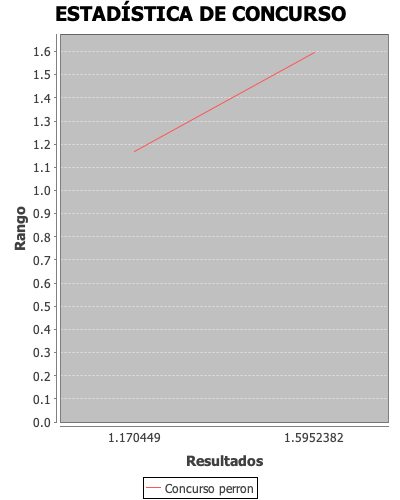
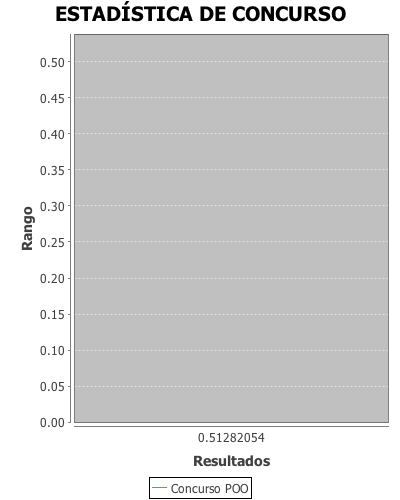
Se llenaron combos y la tabla del reporte desviacion

diff --git a/CYSCDP_RANKINGS/src/swing/Graficas.java b/CYSCDP_RANKINGS/src/swing/Graficas.java
@@ -37,15 +37,23 @@ public class Graficas extends javax.swing.JInternalFrame {
     DatosPuntajes mDatosPuntajes;
     DefaultTableModel Tabla = new DefaultTableModel();
     DefaultTableModel Tabla2 = new DefaultTableModel();
-
+    DefaultTableModel Tabla3 = new DefaultTableModel();
+    
     int IDConcurso = 0;
     int ContadorColumna = 1;
+    int ContadorColumna2 = 1;
+    int IDConcursos1=0;
+    int IDEquipo1=0;
+    int IDEquipo2=0;
 
     ArrayList mArrayListEquipo = new ArrayList();
 
     public Graficas() {
         initComponents();
+        LBL_Mensajero2.setText("");
         LlenarComboConcurso();
+        LlenarComboCon();
+        LlenarComboEq();
         reporteDes();
     }
 
@@ -94,6 +102,7 @@ public class Graficas extends javax.swing.JInternalFrame {
         jScrollPane2 = new javax.swing.JScrollPane();
         Tabla_Des = new javax.swing.JTable();
         ChartDes = new javax.swing.JPanel();
+        LBL_Mensajero2 = new javax.swing.JLabel();
 
         setBorder(null);
         addInternalFrameListener(new javax.swing.event.InternalFrameListener() {
@@ -351,6 +360,8 @@ public class Graficas extends javax.swing.JInternalFrame {
 
         jTabbedPane1.addTab("Gráfica de Puntajes", jPanel1);
 
+        CBprg.setModel(new javax.swing.DefaultComboBoxModel<>(new String[] { "1", "2", "3", "4", "5", "6", "7", "8", "9", "10", "11", "12", "13", "14", "15", "16", "17", "18", "19", "20", "21", "22", "23", "24", "25", "26", "27", "28", "29", "30" }));
+
         jLabel7.setText("Concurso:");
 
         jLabel8.setText("Programa:");
@@ -372,7 +383,7 @@ public class Graficas extends javax.swing.JInternalFrame {
                 {null, null, null}
             },
             new String [] {
-                "Equipos", "Tiempo", "Complejidad"
+                "Tiempo", "Complejidad", "Equipos"
             }
         ) {
             boolean[] canEdit = new boolean [] {
@@ -393,36 +404,40 @@ public class Graficas extends javax.swing.JInternalFrame {
         ChartDes.setBackground(new java.awt.Color(204, 204, 255));
         ChartDes.setLayout(new java.awt.BorderLayout());
 
+        LBL_Mensajero2.setText("jLabel13");
+
         javax.swing.GroupLayout jPanel5Layout = new javax.swing.GroupLayout(jPanel5);
         jPanel5.setLayout(jPanel5Layout);
         jPanel5Layout.setHorizontalGroup(
             jPanel5Layout.createParallelGroup(javax.swing.GroupLayout.Alignment.LEADING)
             .addGroup(jPanel5Layout.createSequentialGroup()
                 .addGap(28, 28, 28)
-                .addGroup(jPanel5Layout.createParallelGroup(javax.swing.GroupLayout.Alignment.LEADING, false)
-                    .addComponent(jScrollPane2, javax.swing.GroupLayout.DEFAULT_SIZE, 548, Short.MAX_VALUE)
-                    .addGroup(jPanel5Layout.createSequentialGroup()
-                        .addGroup(jPanel5Layout.createParallelGroup(javax.swing.GroupLayout.Alignment.LEADING)
-                            .addGroup(jPanel5Layout.createSequentialGroup()
-                                .addComponent(CBcon, javax.swing.GroupLayout.PREFERRED_SIZE, 92, javax.swing.GroupLayout.PREFERRED_SIZE)
-                                .addPreferredGap(javax.swing.LayoutStyle.ComponentPlacement.RELATED)
-                                .addComponent(CBprg, javax.swing.GroupLayout.PREFERRED_SIZE, 96, javax.swing.GroupLayout.PREFERRED_SIZE)
-                                .addPreferredGap(javax.swing.LayoutStyle.ComponentPlacement.UNRELATED)
-                                .addComponent(CBeq1, javax.swing.GroupLayout.PREFERRED_SIZE, 96, javax.swing.GroupLayout.PREFERRED_SIZE))
-                            .addGroup(jPanel5Layout.createSequentialGroup()
-                                .addComponent(jLabel7)
-                                .addGap(46, 46, 46)
-                                .addComponent(jLabel8)
-                                .addGap(40, 40, 40)
-                                .addComponent(jLabel11)))
-                        .addPreferredGap(javax.swing.LayoutStyle.ComponentPlacement.UNRELATED)
-                        .addGroup(jPanel5Layout.createParallelGroup(javax.swing.GroupLayout.Alignment.LEADING)
-                            .addComponent(jLabel12)
-                            .addGroup(jPanel5Layout.createSequentialGroup()
-                                .addComponent(CBeq2, javax.swing.GroupLayout.PREFERRED_SIZE, 96, javax.swing.GroupLayout.PREFERRED_SIZE)
-                                .addPreferredGap(javax.swing.LayoutStyle.ComponentPlacement.RELATED)
-                                .addComponent(BTNgraficar, javax.swing.GroupLayout.PREFERRED_SIZE, 112, javax.swing.GroupLayout.PREFERRED_SIZE))))
-                    .addComponent(ChartDes, javax.swing.GroupLayout.DEFAULT_SIZE, javax.swing.GroupLayout.DEFAULT_SIZE, Short.MAX_VALUE))
+                .addGroup(jPanel5Layout.createParallelGroup(javax.swing.GroupLayout.Alignment.LEADING)
+                    .addComponent(LBL_Mensajero2)
+                    .addGroup(jPanel5Layout.createParallelGroup(javax.swing.GroupLayout.Alignment.LEADING, false)
+                        .addComponent(jScrollPane2, javax.swing.GroupLayout.DEFAULT_SIZE, 548, Short.MAX_VALUE)
+                        .addGroup(jPanel5Layout.createSequentialGroup()
+                            .addGroup(jPanel5Layout.createParallelGroup(javax.swing.GroupLayout.Alignment.LEADING)
+                                .addGroup(jPanel5Layout.createSequentialGroup()
+                                    .addComponent(CBcon, javax.swing.GroupLayout.PREFERRED_SIZE, 92, javax.swing.GroupLayout.PREFERRED_SIZE)
+                                    .addPreferredGap(javax.swing.LayoutStyle.ComponentPlacement.RELATED)
+                                    .addComponent(CBprg, javax.swing.GroupLayout.PREFERRED_SIZE, 96, javax.swing.GroupLayout.PREFERRED_SIZE)
+                                    .addPreferredGap(javax.swing.LayoutStyle.ComponentPlacement.UNRELATED)
+                                    .addComponent(CBeq1, javax.swing.GroupLayout.PREFERRED_SIZE, 96, javax.swing.GroupLayout.PREFERRED_SIZE))
+                                .addGroup(jPanel5Layout.createSequentialGroup()
+                                    .addComponent(jLabel7)
+                                    .addGap(46, 46, 46)
+                                    .addComponent(jLabel8)
+                                    .addGap(40, 40, 40)
+                                    .addComponent(jLabel11)))
+                            .addPreferredGap(javax.swing.LayoutStyle.ComponentPlacement.UNRELATED)
+                            .addGroup(jPanel5Layout.createParallelGroup(javax.swing.GroupLayout.Alignment.LEADING)
+                                .addComponent(jLabel12)
+                                .addGroup(jPanel5Layout.createSequentialGroup()
+                                    .addComponent(CBeq2, javax.swing.GroupLayout.PREFERRED_SIZE, 96, javax.swing.GroupLayout.PREFERRED_SIZE)
+                                    .addPreferredGap(javax.swing.LayoutStyle.ComponentPlacement.RELATED)
+                                    .addComponent(BTNgraficar, javax.swing.GroupLayout.PREFERRED_SIZE, 112, javax.swing.GroupLayout.PREFERRED_SIZE))))
+                        .addComponent(ChartDes, javax.swing.GroupLayout.DEFAULT_SIZE, javax.swing.GroupLayout.DEFAULT_SIZE, Short.MAX_VALUE)))
                 .addContainerGap(89, Short.MAX_VALUE))
         );
         jPanel5Layout.setVerticalGroup(
@@ -444,7 +459,9 @@ public class Graficas extends javax.swing.JInternalFrame {
                 .addComponent(jScrollPane2, javax.swing.GroupLayout.PREFERRED_SIZE, 52, javax.swing.GroupLayout.PREFERRED_SIZE)
                 .addPreferredGap(javax.swing.LayoutStyle.ComponentPlacement.UNRELATED)
                 .addComponent(ChartDes, javax.swing.GroupLayout.PREFERRED_SIZE, 282, javax.swing.GroupLayout.PREFERRED_SIZE)
-                .addContainerGap(66, Short.MAX_VALUE))
+                .addPreferredGap(javax.swing.LayoutStyle.ComponentPlacement.RELATED, 30, Short.MAX_VALUE)
+                .addComponent(LBL_Mensajero2)
+                .addGap(20, 20, 20))
         );
 
         jTabbedPane1.addTab("Reporte de Desviación", jPanel5);
@@ -498,6 +515,7 @@ public class Graficas extends javax.swing.JInternalFrame {
     }//GEN-LAST:event_formInternalFrameOpened
 
     private void BTNgraficarActionPerformed(java.awt.event.ActionEvent evt) {//GEN-FIRST:event_BTNgraficarActionPerformed
+        ConsultaTablaDesv();
         DefaultCategoryDataset Datos = new DefaultCategoryDataset();
         
         Datos.addValue(1, "Equipo 1", "1");
@@ -516,6 +534,8 @@ public class Graficas extends javax.swing.JInternalFrame {
         
         ChartDes.add(Panel, BorderLayout.CENTER);
         ChartDes.validate();
+        
+        
      }//GEN-LAST:event_BTNgraficarActionPerformed
 
     private void reporteDes() {
@@ -542,7 +562,136 @@ public class Graficas extends javax.swing.JInternalFrame {
             LBL_Mensajero.setText("No conectado a la BD");
         }
     }
+    
+    public void LlenarComboCon() {
+        CBcon.addItem("Ninguno");
+        if (mConexion.conectar()) {
+            ArrayList mArrayList = new ArrayList();
+            mArrayList = mConexion.ConsultaNombresConcurso();
+            if (mArrayList != null) {
+                for (int i = 0; i < mArrayList.size(); i++) {
+                    CBcon.addItem(mArrayList.get(i).toString());
+                }
+            } else {
+                LBL_Mensajero2.setText("No tiene Concursos Dados de Alta");
+            }
+            mConexion.desconectar();
+        } else {
+            LBL_Mensajero2.setText("No conectado a la BD");
+        }
+    }
 
+     public void LlenarComboEq() {
+        CBeq1.addItem("Ninguno");
+        CBeq2.addItem("Ninguno");
+        if (mConexion.conectar()) {
+            ArrayList mArrayList = new ArrayList();
+            mArrayList = mConexion.ConsultaNombresEquipos();
+            if (mArrayList != null) {
+                for (int i = 0; i < mArrayList.size(); i++) {
+                    CBeq1.addItem(mArrayList.get(i).toString());
+                    CBeq2.addItem(mArrayList.get(i).toString());
+                }
+            } else {
+                LBL_Mensajero2.setText("No tiene Equipos Dados de Alta");
+            }
+            mConexion.desconectar();
+        } else {
+            LBL_Mensajero2.setText("No conectado a la BD");
+        }
+    }
+     public void ConsultaTablaDesv() {
+        Tabla3 = (DefaultTableModel) Tabla_Des.getModel();
+        int a = Tabla3.getRowCount() - 1;
+        for (int i = a; i >= 0; i--) {
+            Tabla3.removeRow(Tabla3.getRowCount() - 1);
+        }
+        
+        if (mConexion.conectar()) {
+
+            if ((CBcon.getSelectedItem() != "Ninguna") && (CBeq1.getSelectedItem() != "Ninguno") && (CBeq2.getSelectedItem() != "Ninguno")) {
+                IDConcursos1 = mConexion.ConsultarIDConcursos(CBcon.getSelectedItem().toString());
+                IDEquipo1 = mConexion.ConsultarIDEquipos(CBeq1.getSelectedItem().toString());
+                IDEquipo2 = mConexion.ConsultarIDEquipos(CBeq2.getSelectedItem().toString());
+            } else {
+                LBL_Mensajero2.setText("Selecciona una opción de concurso y/o equipo");
+            }
+
+            ArrayList mArrayListPuntajesDesv = new ArrayList();
+            mArrayListPuntajesDesv = mConexion.ConsultarIDPuntajes2(IDConcursos1, IDEquipo1);
+
+            ArrayList mArrayListPuntajesDesv2 = new ArrayList();
+            mArrayListPuntajesDesv2 = mConexion.ConsultarIDPuntajes2(IDConcursos1, IDEquipo2);
+
+            String[] Datos = null;
+            if (mArrayListPuntajesDesv != null) {
+                if (ContadorColumna == 1) {
+                    ContadorColumna = 2;
+                }
+
+                for (int i = 0; i < mArrayListPuntajesDesv.size(); i++) {
+                    Datos = new String[3];
+                    Datos[0] = mArrayListPuntajesDesv.get(i).toString().substring(0, 8); //Tiempo
+                    switch (Integer.parseInt(mArrayListPuntajesDesv.get(i).toString().substring(8, 9))) {
+                        case 1:
+                            Datos[1] = "Básico";
+                            break;
+                        case 2:
+                            Datos[1] = "Medio";
+                            break;
+                        case 3:
+                            Datos[1] = "Avanzado";
+                            break;
+                    }
+                    Datos[2] = mArrayListPuntajesDesv.get(i).toString().substring(9); //Nombre equipo
+                    Tabla3.addRow(Datos);
+                }
+
+            } else{
+                LBL_Mensajero2.setText("No hay puntajes");
+            }
+            if (mArrayListPuntajesDesv2 != null) {
+                if (ContadorColumna2 == 1) {
+                    ContadorColumna2 = 2;
+                }
+
+                for (int i = 0; i < mArrayListPuntajesDesv2.size(); i++) {
+                    Datos = new String[3];
+                    Datos[0] = mArrayListPuntajesDesv2.get(i).toString().substring(0, 8); //Tiempo
+                    switch (Integer.parseInt(mArrayListPuntajesDesv2.get(i).toString().substring(8, 9))) {
+                        case 1:
+                            Datos[1] = "Básico";
+                            break;
+                        case 2:
+                            Datos[1] = "Medio";
+                            break;
+                        case 3:
+                            Datos[1] = "Avanzado";
+                            break;
+                    }
+                    Datos[2] = mArrayListPuntajesDesv2.get(i).toString().substring(9); //Nombre equipo
+                    Tabla3.addRow(Datos);
+                }
+            
+            }else{
+                LBL_Mensajero2.setText("No hay puntajes");
+            }
+            this.Tabla_Des = new javax.swing.JTable();
+            this.Tabla_Des.setModel(Tabla3);
+            this.Tabla_Des.getColumnModel().getColumn(0).setPreferredWidth(50);
+            this.Tabla_Des.getColumnModel().getColumn(1).setPreferredWidth(50);
+            this.Tabla_Des.getColumnModel().getColumn(2).setPreferredWidth(100);
+            if (this.Tabla_Des.getRowCount() > 0) {
+                this.Tabla_Des.setRowSelectionInterval(0, 0);
+            }
+            mConexion.desconectar();
+        } else {
+            LBL_Mensajero2.setText("Error al consultar");
+        }
+
+        ContadorColumna = 1;
+    }
+     
     public void MostrarGanadores() {
         //CBResultados.removeAllItems();
 
@@ -686,6 +835,7 @@ public class Graficas extends javax.swing.JInternalFrame {
     private javax.swing.JComboBox<String> CBprg;
     private javax.swing.JPanel ChartDes;
     private javax.swing.JLabel LBL_Mensajero;
+    private javax.swing.JLabel LBL_Mensajero2;
     private javax.swing.JPanel Panel_Oculto;
     private javax.swing.JTable Tabla_Des;
     private javax.swing.JTable Tabla_Nombre_Resultados;

diff --git a/CYSCDP_RANKINGS/src/swing/Concurso.java b/CYSCDP_RANKINGS/src/swing/Concurso.java
@@ -71,6 +71,7 @@ public class Concurso extends javax.swing.JInternalFrame {
         jScrollPane6 = new javax.swing.JScrollPane();
         TBLaltaConcursos = new javax.swing.JTable();
         LBL_Mensajero2 = new javax.swing.JLabel();
+        DCfechaAlta = new com.toedter.calendar.JDateChooser();
         jTabbedPane2 = new javax.swing.JTabbedPane();
         jPanel3 = new javax.swing.JPanel();
         BTNborrar = new javax.swing.JButton();
@@ -94,6 +95,7 @@ public class Concurso extends javax.swing.JInternalFrame {
         jLabel17 = new javax.swing.JLabel();
         jLabel18 = new javax.swing.JLabel();
         LBLidCambios = new javax.swing.JLabel();
+        DCfechaCambios = new com.toedter.calendar.JDateChooser();
         jTabbedPane4 = new javax.swing.JTabbedPane();
         jPanel5 = new javax.swing.JPanel();
         jLabel14 = new javax.swing.JLabel();
@@ -178,15 +180,19 @@ public class Concurso extends javax.swing.JInternalFrame {
                                 .addComponent(jLabel3)
                                 .addComponent(jLabel2))
                             .addPreferredGap(javax.swing.LayoutStyle.ComponentPlacement.RELATED)
-                            .addComponent(TXTdescripcion, javax.swing.GroupLayout.PREFERRED_SIZE, 223, javax.swing.GroupLayout.PREFERRED_SIZE))))
+                            .addGroup(jPanel1Layout.createParallelGroup(javax.swing.GroupLayout.Alignment.LEADING, false)
+                                .addComponent(TXTdescripcion, javax.swing.GroupLayout.DEFAULT_SIZE, 223, Short.MAX_VALUE)
+                                .addComponent(DCfechaAlta, javax.swing.GroupLayout.DEFAULT_SIZE, javax.swing.GroupLayout.DEFAULT_SIZE, Short.MAX_VALUE)))))
                 .addContainerGap(44, Short.MAX_VALUE))
         );
         jPanel1Layout.setVerticalGroup(
             jPanel1Layout.createParallelGroup(javax.swing.GroupLayout.Alignment.LEADING)
             .addGroup(jPanel1Layout.createSequentialGroup()
                 .addGap(20, 20, 20)
-                .addComponent(jLabel2)
-                .addGap(28, 28, 28)
+                .addGroup(jPanel1Layout.createParallelGroup(javax.swing.GroupLayout.Alignment.LEADING)
+                    .addComponent(jLabel2)
+                    .addComponent(DCfechaAlta, javax.swing.GroupLayout.PREFERRED_SIZE, javax.swing.GroupLayout.DEFAULT_SIZE, javax.swing.GroupLayout.PREFERRED_SIZE))
+                .addGap(18, 18, 18)
                 .addGroup(jPanel1Layout.createParallelGroup(javax.swing.GroupLayout.Alignment.LEADING)
                     .addComponent(jLabel3)
                     .addComponent(TXTdescripcion, javax.swing.GroupLayout.PREFERRED_SIZE, 55, javax.swing.GroupLayout.PREFERRED_SIZE))
@@ -350,7 +356,9 @@ public class Concurso extends javax.swing.JInternalFrame {
                                         .addComponent(jLabel13)
                                         .addComponent(jLabel15))
                                     .addGap(18, 18, 18)
-                                    .addComponent(TXTnombreCambios, javax.swing.GroupLayout.PREFERRED_SIZE, 282, javax.swing.GroupLayout.PREFERRED_SIZE)))))
+                                    .addGroup(jPanel4Layout.createParallelGroup(javax.swing.GroupLayout.Alignment.LEADING, false)
+                                        .addComponent(TXTnombreCambios, javax.swing.GroupLayout.DEFAULT_SIZE, 282, Short.MAX_VALUE)
+                                        .addComponent(DCfechaCambios, javax.swing.GroupLayout.DEFAULT_SIZE, javax.swing.GroupLayout.DEFAULT_SIZE, Short.MAX_VALUE))))))
                     .addGroup(jPanel4Layout.createSequentialGroup()
                         .addGap(161, 161, 161)
                         .addComponent(jLabel17)
@@ -363,8 +371,10 @@ public class Concurso extends javax.swing.JInternalFrame {
         jPanel4Layout.setVerticalGroup(
             jPanel4Layout.createParallelGroup(javax.swing.GroupLayout.Alignment.LEADING)
             .addGroup(jPanel4Layout.createSequentialGroup()
-                .addGap(19, 19, 19)
-                .addComponent(jLabel15)
+                .addGap(9, 9, 9)
+                .addGroup(jPanel4Layout.createParallelGroup(javax.swing.GroupLayout.Alignment.TRAILING)
+                    .addComponent(jLabel15)
+                    .addComponent(DCfechaCambios, javax.swing.GroupLayout.PREFERRED_SIZE, javax.swing.GroupLayout.DEFAULT_SIZE, javax.swing.GroupLayout.PREFERRED_SIZE))
                 .addGap(18, 18, 18)
                 .addGroup(jPanel4Layout.createParallelGroup(javax.swing.GroupLayout.Alignment.BASELINE)
                     .addComponent(jLabel13)
@@ -888,6 +898,8 @@ public class Concurso extends javax.swing.JInternalFrame {
     private javax.swing.JComboBox<String> CBhorasCambios;
     private javax.swing.JComboBox<String> CBminCambios;
     private javax.swing.JComboBox<String> CBminutos;
+    private com.toedter.calendar.JDateChooser DCfechaAlta;
+    private com.toedter.calendar.JDateChooser DCfechaCambios;
     private javax.swing.JLabel LBL_Mensajero1;
     private javax.swing.JLabel LBL_Mensajero2;
     private javax.swing.JLabel LBL_Mensajero3;

diff --git a/CYSCDP_RANKINGS/src/swing/Conexion.java b/CYSCDP_RANKINGS/src/swing/Conexion.java
@@ -301,6 +301,32 @@ public class Conexion {
         }
         return mListaPuntajes;
     }
+    
+    public ArrayList ConsultarIDPuntajes2(int idConcurso, int idEquipo) {
+        ArrayList mListaPuntajes = new ArrayList();
+
+        DatosPuntajes mDatosPuntajes = null;
+        Statement consulta;
+        ResultSet resultado;
+        String Datos;
+        int IDEquipo = 0;
+
+        try {
+            consulta = conexion.createStatement();
+            //SELECT idPuntajes FROM Puntajes WHERE Concursos_idConcursos = '1' and Equipos_idEquipos = '2'
+            resultado = consulta.executeQuery("SELECT Tiempo, Complejidad, NombreEquipo FROM Puntajes inner join Equipos ON Equipos.idEquipos = Puntajes.Equipos_idEquipos WHERE Concursos_idConcursos = '" + idConcurso + "' and Equipos_idEquipos = '" + idEquipo + "';");
+            while (resultado.next()) {
+                Datos = "";
+                Datos = resultado.getString("Tiempo") + resultado.getString("Complejidad") + resultado.getString("NombreEquipo");
+
+                mListaPuntajes.add(Datos);
+                //mListaPuntajesTiempo.add(resultado.getString("Complejidad"));
+            }
+        } catch (Exception e) {
+            e.printStackTrace();
+        }
+        return mListaPuntajes;
+    }
 
     public ArrayList ConsultarConcursos() {
         ArrayList mListaConcursos = new ArrayList();
